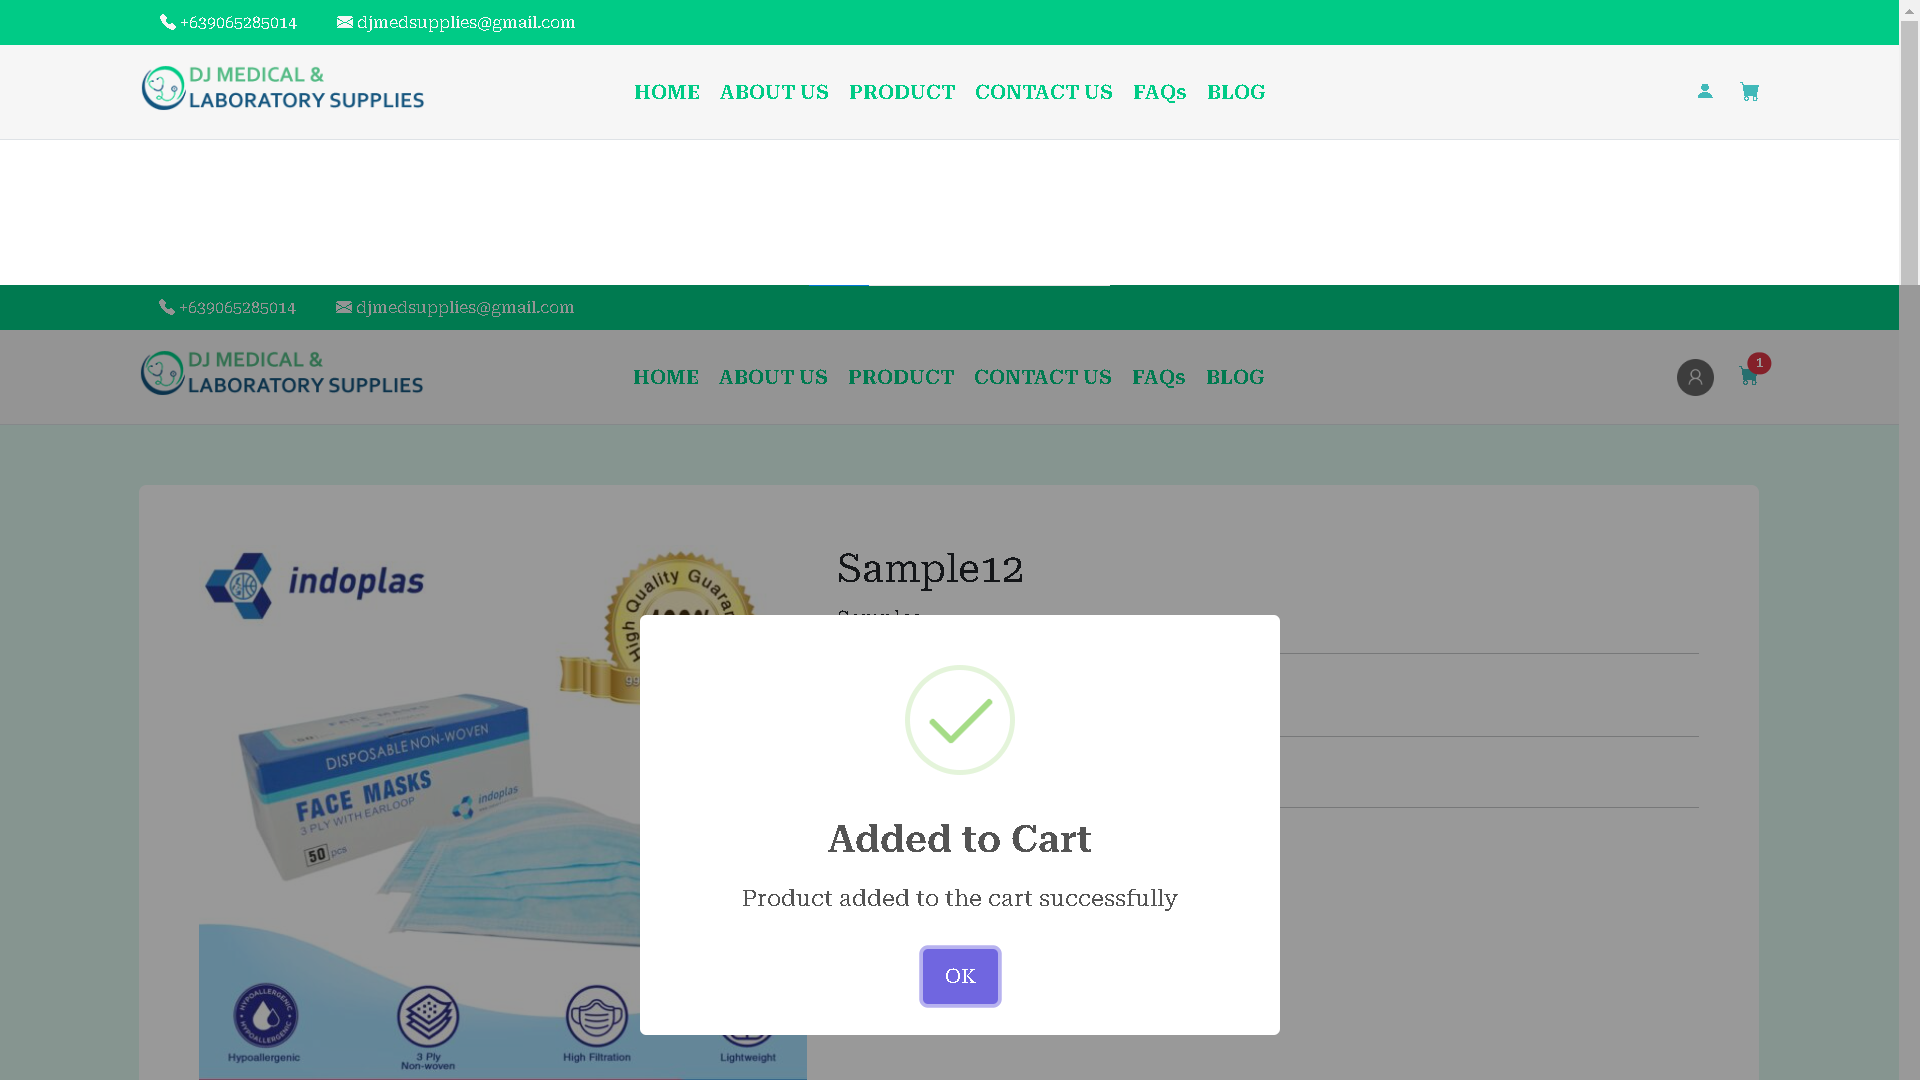
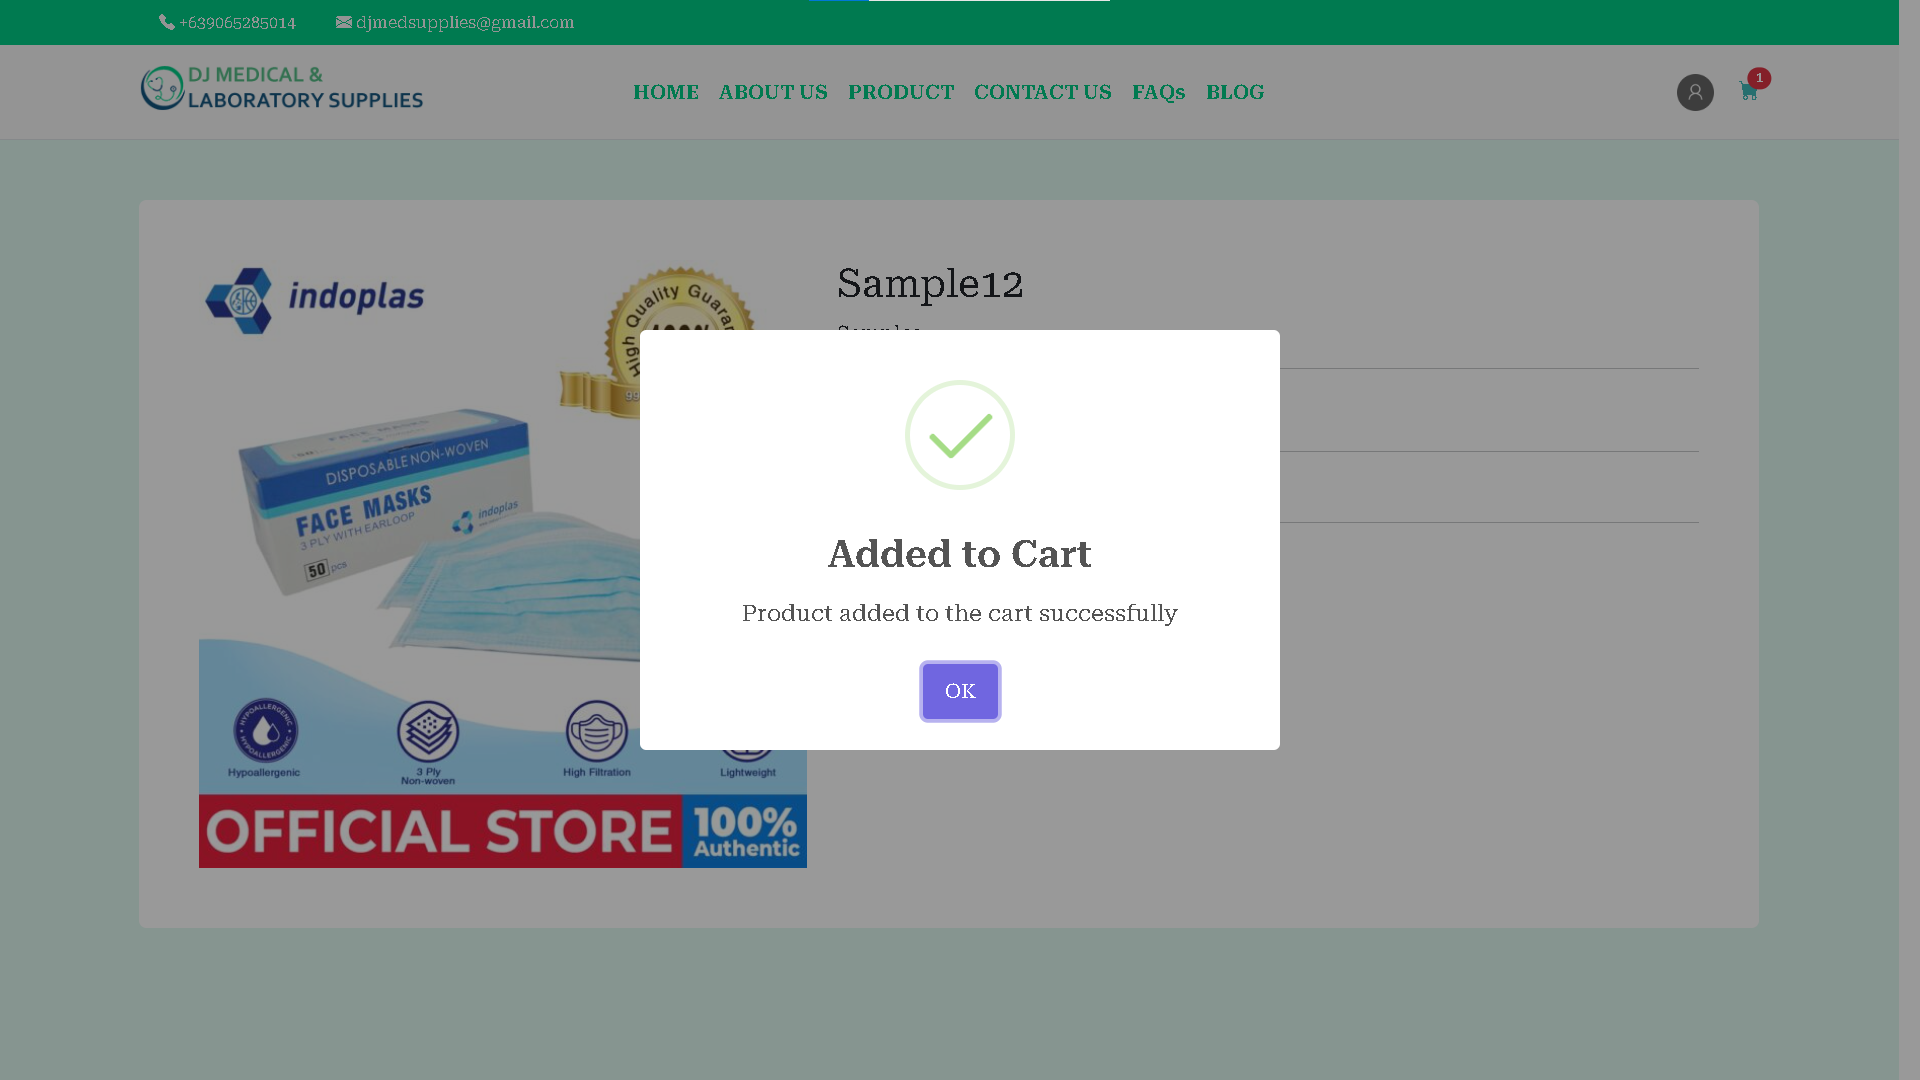
updated

diff --git a/script.js b/script.js
@@ -42,37 +42,38 @@ $(document).ready(function() {
     const carouselItemsdj = document.getElementById("carousel-itemsdj");
     const carouselIndicatorsdj = document.getElementById("carousel-indicatorsdj");
 
-    for (let i = 0; i < 22; i++) {
+    for (let i = 0; i < 21; i++) {
       const carouselItem = document.createElement("div");
-      carouselItem.classList.add("carousel-item"); // Correct class
+      carouselItem.classList.add("carousel-item");
 
-      // Set the first item as active
-      if (i === 1) {
+      if (i === 0) {
         carouselItem.classList.add("active");
       }
 
       const img = document.createElement("img");
-      img.src = `img/dj/${i}.png`; 
-      img.classList.add("d-block", "w-100"); 
-      img.alt = `Slide ${i + 1}`;
+      img.src = `img/dj/${i + 1}.png`; 
+      img.classList.add("d-block", "w-100");
+      img.alt = `Slide ${i + 1}`; 
 
       carouselItem.appendChild(img);
 
       carouselItemsdj.appendChild(carouselItem);
 
+      // Create carousel indicator button
       const button = document.createElement("button");
       button.type = "button";
       button.setAttribute("data-bs-target", "#carouselExampleIndicatorsdj");
-      button.setAttribute("data-bs-slide-to", i); 
+      button.setAttribute("data-bs-slide-to", i);
       button.setAttribute("aria-label", `Slide ${i + 1}`);
 
       if (i === 0) {
         button.classList.add("active");
-        button.setAttribute("aria-current", "true"); 
+        button.setAttribute("aria-current", "true");
       }
 
       carouselIndicatorsdj.appendChild(button);
     }
+
 
      
 
